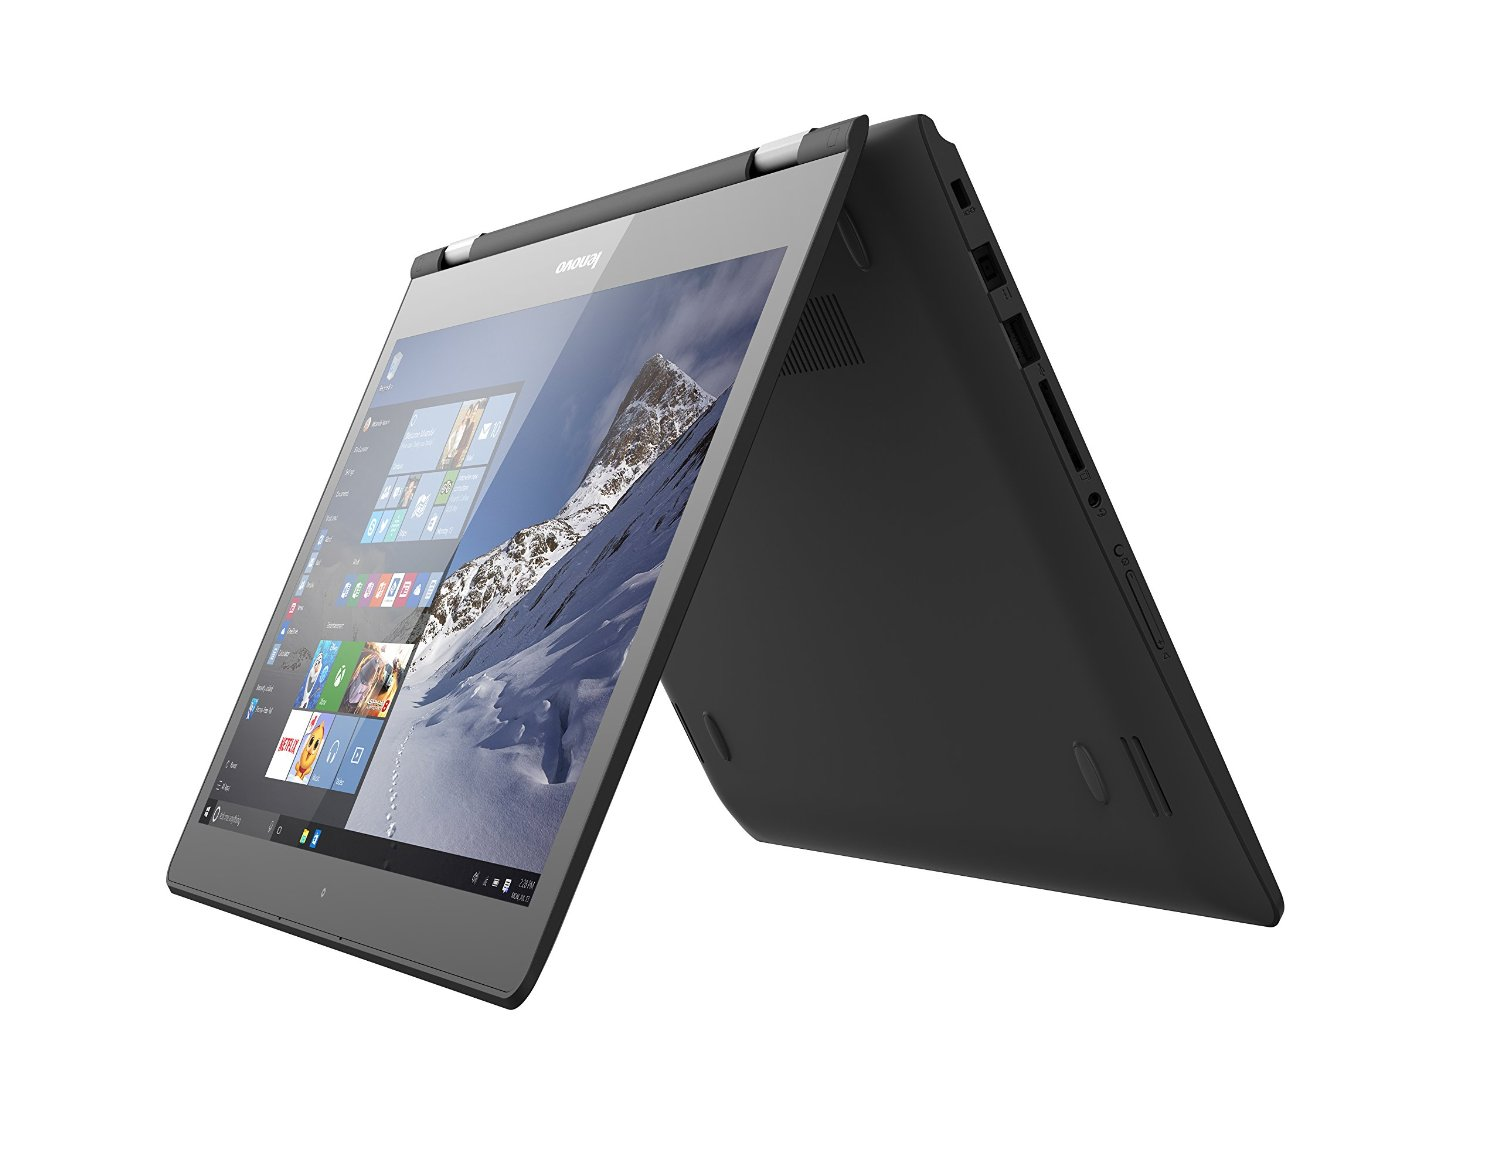
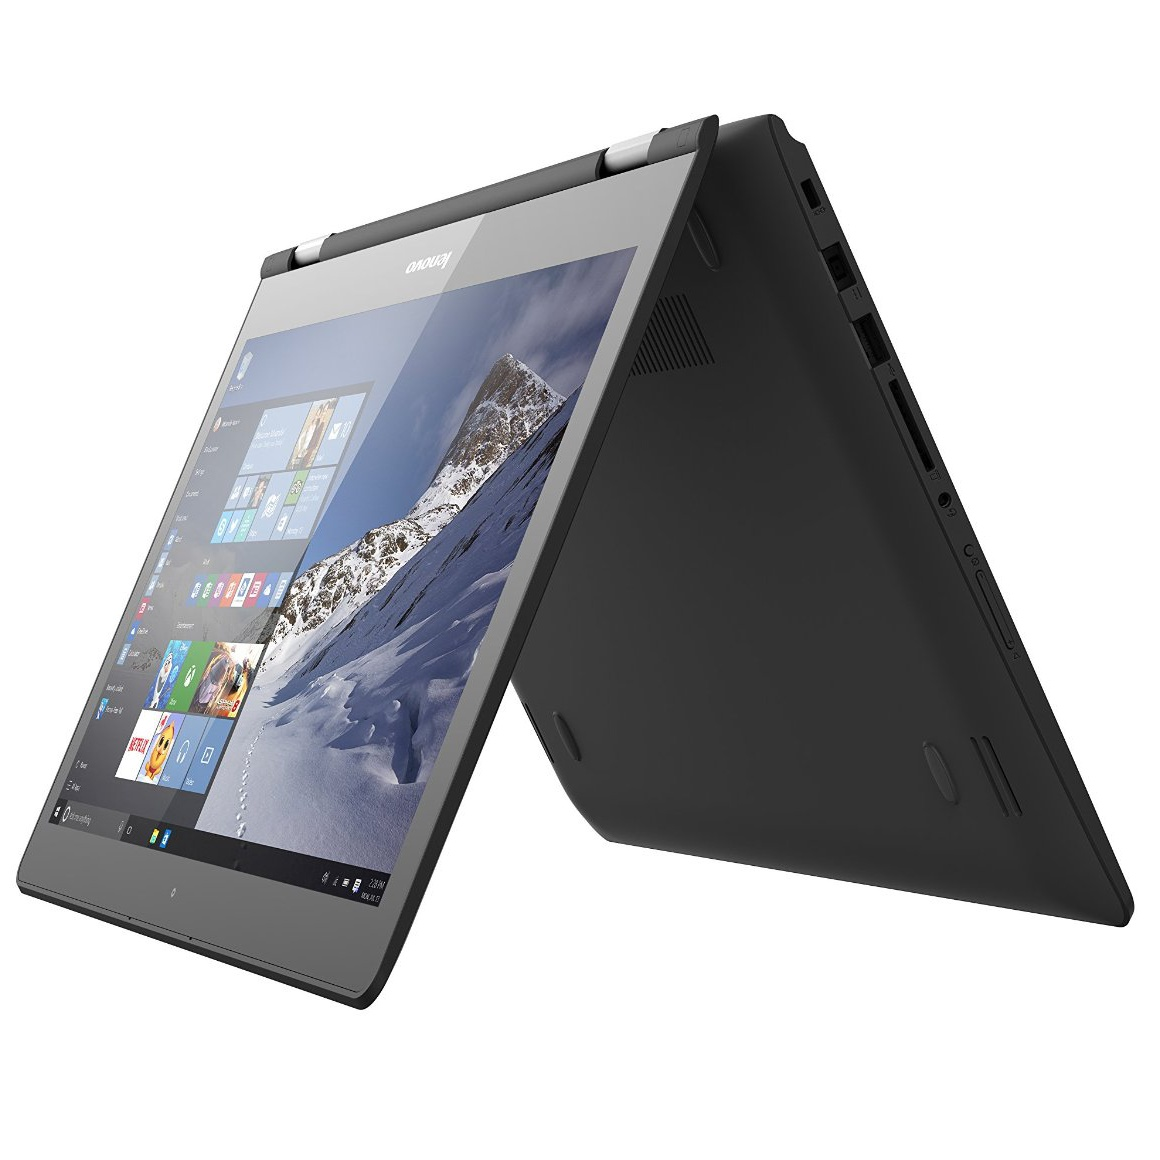
Pics CSS fix

Changed region(s): [[0.0, 0.0931, 0.9931, 0.869]]

diff --git a/libraries/css/productPreview.css b/libraries/css/productPreview.css
@@ -51,8 +51,8 @@
     left: 0;  
     right: 0;
     margin: auto;
-    max-width: 310px;
-	max-height: 310px;
+    max-width: 350px;
+	max-height: 350px;
     border: 1px solid #d0d0d0;
 
     -webkit-box-shadow: 0px 6px 9px 0px rgba(94,102,99,1);
@@ -88,6 +88,7 @@ td:hover .bigpic{
     border: 0;
     margin: 2%;
     margin-left: 4%;
+	margin-right: 0px;
     vertical-align: middle;
     display: inline-block;
     height: 100%;
